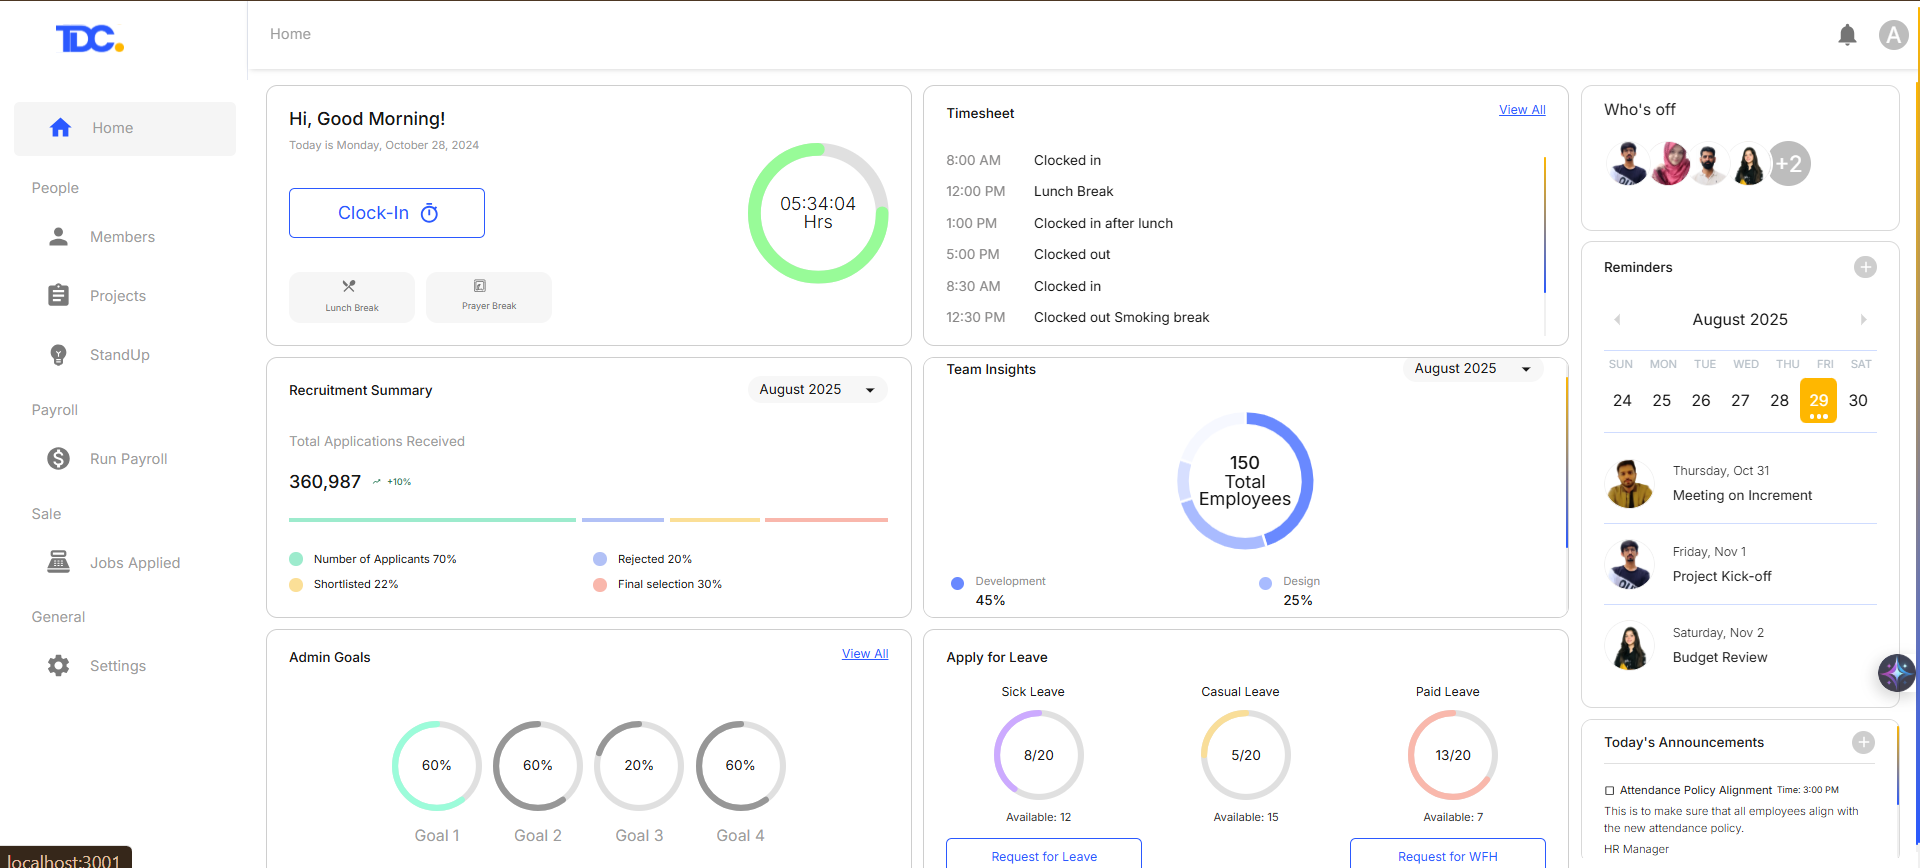
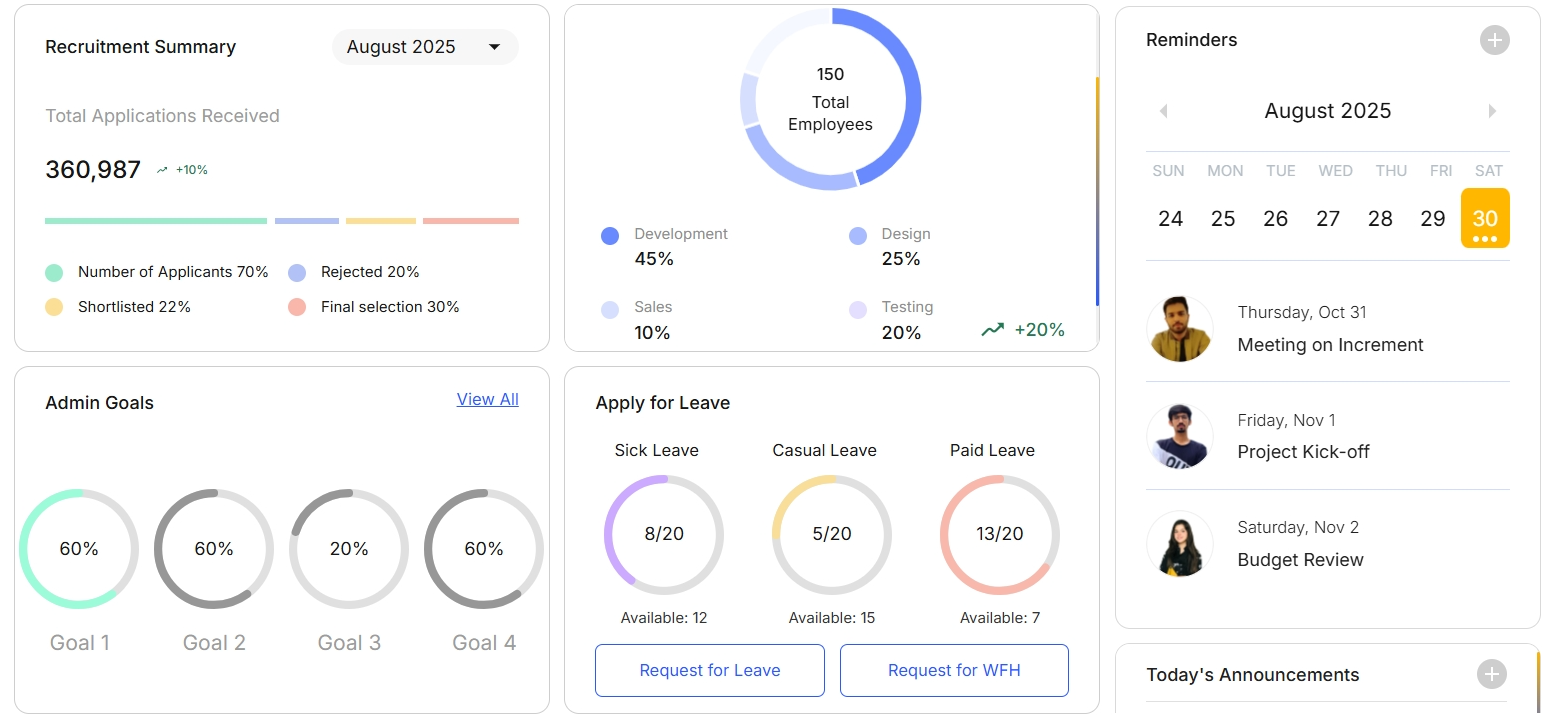
Complete Website

diff --git a/src/app/home/_components/projectDetails/projectDetails.tsx b/src/app/home/_components/projectDetails/projectDetails.tsx
@@ -74,38 +74,38 @@ export default function ProjectDetails({ projectId }: ProjectDetailsProps) {
         { title: "Deployment", items: ["Vercel"] },
       ],
     },
-3: {
-  implementations: [
-    {
-      title: "Service Showcase",
-      desc: "Designed interactive service cards to present digital design and Webflow offerings clearly and attractively."
+    3: {
+      implementations: [
+        {
+          title: "Service Showcase",
+          desc: "Designed interactive service cards to present digital design and Webflow offerings clearly and attractively.",
+        },
+        {
+          title: "Responsive Design",
+          desc: "Implemented MUI grid system and CSS-in-js to create a responsive layout for all devices.",
+        },
+        {
+          title: "Reusable Components",
+          desc: "Built modular React components for consistent UI and easy maintenance across pages.",
+        },
+        {
+          title: "Animations & Interactivity",
+          desc: "Enhanced user experience with Framer Motion for smooth transitions and interactive elements.",
+        },
+        {
+          title: "Deployment",
+          desc: "Hosted on Vercel for fast, globally accessible performance.",
+        },
+      ],
+      stack: [
+        { title: "Framework", items: ["React.js"] },
+        { title: "Styling", items: ["MUI", "CSS-in-js"] },
+        { title: "Components", items: ["Reusable React Components"] },
+        { title: "State & Hooks", items: ["React Hooks"] },
+        { title: "Animations", items: ["Framer Motion"] },
+        { title: "Deployment", items: ["Vercel"] },
+      ],
     },
-    {
-      title: "Responsive Design",
-      desc: "Implemented MUI grid system and CSS-in-js to create a responsive layout for all devices."
-    },
-    {
-      title: "Reusable Components",
-      desc: "Built modular React components for consistent UI and easy maintenance across pages."
-    },
-    {
-      title: "Animations & Interactivity",
-      desc: "Enhanced user experience with Framer Motion for smooth transitions and interactive elements."
-    },
-    {
-      title: "Deployment",
-      desc: "Hosted on Vercel for fast, globally accessible performance."
-    }
-  ],
-  stack: [
-    { title: "Framework", items: ["React.js"] },
-    { title: "Styling", items: ["MUI", "CSS-in-js"] },
-    { title: "Components", items: ["Reusable React Components"] },
-    { title: "State & Hooks", items: ["React Hooks"] },
-    { title: "Animations", items: ["Framer Motion"] },
-    { title: "Deployment", items: ["Vercel"] }
-  ]
-},
 
     4: {
       implementations: [
@@ -205,6 +205,56 @@ export default function ProjectDetails({ projectId }: ProjectDetailsProps) {
           title: "Deployment",
           items: ["Docker", "Vercel"],
         },
+      ],
+    },
+
+    6: {
+      implementations: [
+        {
+          title: "Task & Attendance Management",
+          desc: "Implemented modules for attendance tracking, project assignments, and task monitoring with real-time updates using Redux.",
+        },
+        {
+          title: "Leave Application Management",
+          desc: "Enabled employees to apply for leaves and allowed HR to track and manage all leave requests efficiently.",
+        },
+        {
+          title: "Project Tracking",
+          desc: "Developed a system to track ongoing projects, monitor progress, and assign responsibilities to team members.",
+        },
+        {
+          title: "Payroll & Employee Records",
+          desc: "Developed secure payroll and employee management system with NestJS, PostgreSQL, and Prisma for efficient data storage and retrieval.",
+        },
+        {
+          title: "Authentication & Access Control",
+          desc: "Implemented user authentication and role-based access control to secure sensitive employee and payroll information.",
+        },
+        {
+          title: "Reusable Components",
+          desc: "Built modular React components for forms, tables, and dashboards to maintain consistency across the app.",
+        },
+        {
+          title: "Responsive UI",
+          desc: "Designed a responsive and intuitive interface using MUI, ensuring seamless experience across desktop and mobile devices.",
+        },
+        {
+          title: "Deployment",
+          desc: "Deployed the application on Vercel for fast, globally accessible performance.",
+        },
+      ],
+      stack: [
+        {
+          title: "Frontend",
+          items: ["React.js", "MUI", "Redux", "TypeScript", "JavaScript"],
+        },
+        { title: "Backend", items: ["NestJS"] },
+        { title: "Database", items: ["PostgreSQL", "Prisma"] },
+        {
+          title: "Authentication",
+          items: ["Role-Based Access Control", "JWT/Auth System"],
+        },
+        { title: "Deployment", items: ["Vercel"] },
       ],
     },
   };

diff --git a/src/app/home/_components/project/project.tsx b/src/app/home/_components/project/project.tsx
@@ -32,7 +32,7 @@ export default function ProjectsSection() {
       description:
         "Ethan Suero is a web application built with React.js and MUI that delivers a sleek and responsive user interface. The project makes use of Material-UI’s theming and grid system to ensure a consistent design across devices. Structured with reusable components, the site is easy to maintain and extend. Deployed on Vercel, it benefits from fast loading speeds and reliable global hosting.",
       tech: ["React.js", "MUI", "TypeScript", "CSS-in-js"],
-      image: "/Images/EthanSuero-1.jpg",
+      image: "/Images/EthanSuero.png",
       details: "true",
     },
     {
@@ -51,22 +51,40 @@ export default function ProjectsSection() {
       details: "true",
     },
     {
-  id: 5,
-  title: "Dr Wafa Clinics App/Booking Engine",
-  description:
-    "Dr Wafa Clinics App/Booking Engine is a scalable hospital management system designed to streamline healthcare operations. Built with Nestjs and PostgreSQL,  it manages appointments, pharmacy e-commerce, billing, and procurement. The system features conflict-free scheduling, automated insurance billing, and real-time stock tracking. A React Native mobile app ensures real-time updates, offline support, and role-based dashboards for doctors, patients, and admins. Deployed with Docker and Vercel, the solution guarantees high availability, seamless scaling, and secure data handling.",
-  tech: [
-    "Next.js",
-    "Nestjs",
-    "PostgreSQL",
-    "React Native",
-    "MUI",
-    "Docker",
-  ],
-  image: "/Images/WafaClinic-3.jpg",
-  details: "true"
-}
-
+      id: 5,
+      title: "Dr Wafa Clinics App/Booking Engine",
+      description:
+        "Dr Wafa Clinics App/Booking Engine is a scalable hospital management system designed to streamline healthcare operations. Built with Nestjs and PostgreSQL,  it manages appointments, pharmacy e-commerce, billing, and procurement. The system features conflict-free scheduling, automated insurance billing, and real-time stock tracking. A React Native mobile app ensures real-time updates, offline support, and role-based dashboards for doctors, patients, and admins. Deployed with Docker and Vercel, the solution guarantees high availability, seamless scaling, and secure data handling.",
+      tech: [
+        "Next.js",
+        "Nestjs",
+        "PostgreSQL",
+        "React Native",
+        "MUI",
+        "Docker",
+      ],
+      image: "/Images/WafaClinic.jpg",
+      details: "true",
+    },
+    {
+      id: 6,
+      title: "TDC HRM",
+      description:
+        "TDC HRM is a comprehensive office management application built with React.js and MUI, designed to streamline tasks such as attendance tracking, leave applications, project management, payroll processing, and other administrative operations. The platform uses Redux for state management to ensure a consistent and responsive user experience. Authentication and role-based access control secure sensitive employee and payroll data. The backend is built with NestJS, PostgreSQL, and Prisma for scalable, efficient, and reliable data handling. Deployed on Vercel, it provides fast performance and reliable access for office staff.",
+      tech: [
+        "React.js",
+        "MUI",
+        "Redux",
+        "NestJS",
+        "PostgreSQL",
+        "Prisma",
+        "TypeScript",
+        "JavaScript",
+        "Vercel",
+      ],
+      image: "/Images/TDC.png",
+      details: "true",
+    },
   ];
 
   const [selectedProject, setSelectedProject] = useState<Project | null>(null);
@@ -177,7 +195,7 @@ export default function ProjectsSection() {
             initial={{ opacity: 0 }}
             animate={{ opacity: 1 }}
             exit={{ opacity: 0 }}
-             onClick={() => setSelectedProject(null)}
+            onClick={() => setSelectedProject(null)}
           >
             <motion.div
               className="bg-gray-900 p-6 rounded-xl max-w-3xl w-full relative overflow-y-auto max-h-[90vh]"
@@ -185,7 +203,7 @@ export default function ProjectsSection() {
               animate={{ scale: 1, opacity: 1, y: 0 }}
               exit={{ scale: 0.9, opacity: 0, y: 50 }}
               transition={{ duration: 0.3 }}
-               onClick={(e) => e.stopPropagation()}
+              onClick={(e) => e.stopPropagation()}
             >
               <button
                 onClick={() => setSelectedProject(null)}
